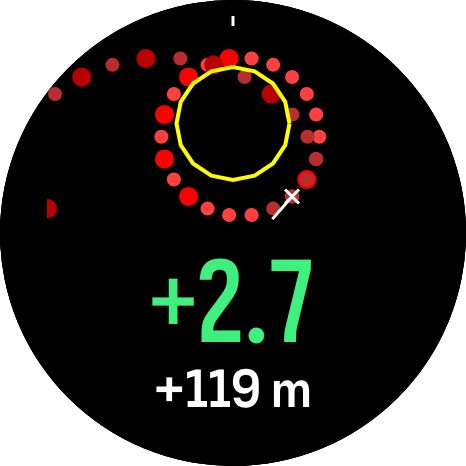
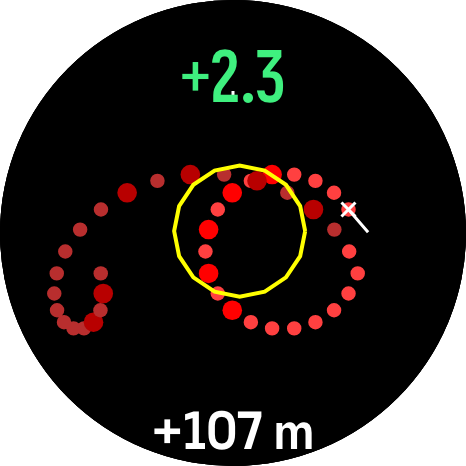
VarioLink map page: climb at the top, gain at the bottom, bigger map

diff --git a/src/ble_vario/v.html b/src/ble_vario/v.html
@@ -124,9 +124,9 @@ onDeactivate="
     <div id="fl" class="sp-text-bottom p-hc" style="top:83%;visibility:hidden;"><span class="sp-t-s cm-mid">{{flt}}</span><span class="sp-d-xs f-num" style="padding-left:8px;"><eval input="Zapp/{zapp_index}/Output/ft" outputFormat="Duration_FourdigitsFixed" default="--" /></span></div>
     <div id="rs" class="sp-t-s c-orange p-hc" style="top:85%;">{{srch}}</div>
     <div id="gp" class="sp-t-s p-hc" style="top:85%;visibility:hidden;">--</div>
-    <div id="mp" style="position:absolute;top:3%;left:10%;width:80%;height:47%;visibility:hidden;"><object id="map" type="canvas" build="ctx => draw(ctx)" style="width:100%;height:100%;" /></div>
-    <div id="ml" class="sp-d-l f-num p-hc" style="top:46%;visibility:hidden;">--</div>
-    <div id="mg" class="sp-t-l p-hc" style="top:74%;visibility:hidden;">--</div>
+    <div id="mp" style="position:absolute;top:19%;left:9%;width:82%;height:62%;visibility:hidden;"><object id="map" type="canvas" build="ctx => draw(ctx)" style="width:100%;height:100%;" /></div>
+    <div id="ml" class="sp-d-s f-num p-hc" style="top:4%;visibility:hidden;">--</div>
+    <div id="mg" class="sp-t-l p-hc" style="top:83%;visibility:hidden;">--</div>
   </div>
   <userInput>
     <pushButton name="up" longType="action" onLongPressStart="$.put('/Zapp/{zapp_index}/Event', 2, null, 'int32');" />
